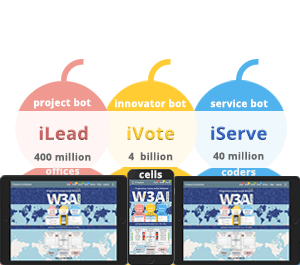
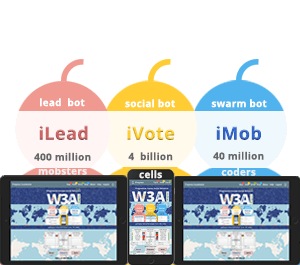
switched to bot mobs theme

diff --git a/src/app/welcome/welcome.component.html b/src/app/welcome/welcome.component.html
@@ -47,6 +47,11 @@
         </li>
 
         <li class="ranks middle" fxLayout="column" fxLayoutAlign="center center" fxLayoutGap="5px">
+            
+          <b>world bots: {{i}} | prj: {{ prj_state }} | set: {{setup}}</b>
+          <!--
+          <a routerLink="/signup"><button class="auth-button" mat-button>Game In</button></a>
+          -->
           <h6 class="carousel">
 <!--
             Join <a class="ppt-links"
@@ -100,22 +105,19 @@
   <section class="speed">
     <div fxLayout="row" xLayoutAlign="center center" fxLayoutGap="20px"  fxLayoutGap.gt-xs="24px">
       <div fxLayout="column" fxLayoutAlign="center center">
-        <div>manual</div>
         <div><button class="W3AI-button" mat-button (click)="onSetManual(3000)"
-            [ngStyle]="{color: getStatusButtonManual()}"><b><</b></button></div>
-        
+            [ngStyle]="{color: getStatusButtonManual()}"><b>></b></button></div>
+            <div>manual</div>
       </div>
       <div fxLayout="column" fxLayoutAlign="center center">
-          <div>autopilot</div>
         <div><button class="W3AI-button" mat-button (click)="onSetSprint(100)"
-            [ngStyle]="{color: getStatusButtonMarathon()}"><b><<</b></button></div>
-        
+            [ngStyle]="{color: getStatusButtonMarathon()}"><b>>></b></button></div>
+            <div>autopilot</div>
       </div>
       <div fxLayout="column" fxLayoutAlign="center center">
-        <div>innovation</div>
         <div><button class="W3AI-button" mat-button (click)="onSetRun(10)"
-            [ngStyle]="{color: getStatusButtonHackathon()}"><b><<<</b></button></div>
-        
+            [ngStyle]="{color: getStatusButtonHackathon()}"><b>>>></b></button></div>
+            <div>innovation</div>
       </div>
     </div>
   </section>
@@ -140,13 +142,13 @@
         <tr>
           <td></td>
           <td></td>
-          <td contenteditable="true"><b>&nbsp;iLead Projects&nbsp;</b></td>
+          <td contenteditable="true"><b>&nbsp;mob projects&nbsp;</b></td>
           <td></td>
           <td></td>
-          <td contenteditable="true"><b>iProgress Loop</b></td>
+          <td contenteditable="true"><b>mob interests</b></td>
           <td></td>
           <td></td>
-          <td contenteditable="true"><b>&nbsp;iCode Services&nbsp;</b></td>
+          <td contenteditable="true"><b>&nbsp;mob services&nbsp;</b></td>
           <td></td>
           <td></td>
         </tr>
@@ -309,14 +311,14 @@
     <section id="manual" *ngIf="manual">
   
       <div id="round-robin-container">
-        <div id="interest-container">#Rank - Interest - $Budget</div>
+        <div id="interest-container">{{ link1 }} mobs / Δ: ${{ this.tag[(i+2)%this.nrLinks][5] }}</div>
         <div id="project-service-container" fxLayout="row" fxLayoutGap="0px" style="width: 300px; height: 200px;">
 
           <div id="project-container" fxLayout="column" fxLayoutAlign="center center" 
           style="width: 150px; height: 200px; background-color: #f09991"
           [@prjState]="prj_state">
-            <div id="project-owner-container">Owner Image</div>
-            <div id="project-state-container">
+            <div id="project-owner-container">Title</div>
+            <div id="project-state-container">Owner Image
               <div id="project-state">Next Steps</div>
               <div id="project-state-badges-container"></div>
             </div>
@@ -324,7 +326,7 @@
 
           <div id="service-container" fxLayout="column" fxLayoutAlign="center center"
           style="width: 150px; height: 200px; background-color: #50b3ed"
-          @serviceInOutTrigger>
+          [@srvState]="srv_state">
             <div id="service-owner-container">Owner Image</div>
             <div id="service-state-container">
                 <div id="service-state">Next Steps</div>
@@ -360,11 +362,11 @@
     <section *ngIf="run">
   
       <div id="hello-world">
-        <h1 id="main-title">Web Brains</h1>
+        <h1 id="main-title">Web Mobs</h1>
         <div class="header" fxLayout="row" fxLayoutAlign="center center">
           <div id="left" fxFlex="27%">
             <p>
-              <br><span class="side-title">Brains Teams</span><br>
+              <br><span class="side-title">Web Mobs</span><br>
               Links<sup>2</sup>: {{ superFriendsNo }}<br>
               Projects: {{ superProjectsNo }}<br>
               Services: {{ superServicesNo }}<br>
@@ -437,12 +439,12 @@
   <section class="clone" fxLayout="row" fxLayoutGap="40px">
     <div class="open-source" fxLayout="column" fxLayoutAlign="center end">
       <p><b>FREE W3AI.ORG</b></p>
-      <p><b><a href="https://w3ai.org">Social Brains</a></b></p>
+      <p><b><a href="https://w3ai.org">Personal Bots</a></b></p>
       <p>EDU, ORG</p>
     </div>
     <div class="enterprise" fxLayout="column" fxLayoutAlign="center ">
       <p><b>OPEN W3AI.NET</b></p>
-      <p><b><a href="https://w3ai.net">Business Brains</a></b></p>
+      <p><b><a href="https://w3ai.net">Business Bots</a></b></p>
       <p>GOV, COM</p>
     </div>
   </section>
@@ -454,7 +456,7 @@
   </a>
 -->
 
-  <h1>Fair Brains</h1>
+  <h1>Web Brain</h1>
 </section>
 
 <div class="welcome" fxLayout="row" fxLayoutGap="0px"  fxLayoutGap.gt-xs="20px" fxLayoutAlign="center center">

diff --git a/src/app/welcome/welcome.component.ts b/src/app/welcome/welcome.component.ts
@@ -42,21 +42,31 @@ export interface Tile {
       }))
     ])
   ]),
-  trigger('serviceInOutTrigger', [
-    transition(':enter', [
-      style({ opacity: 0 }),
-      animate(200, style({ opacity: 1 })),
-    ]),
-    transition(':leave', [
-      animate(200, style({ opacity: 0 }))
+
+  trigger('srvState', [
+    state('new', style({
+      opacity: 1,
+      transform: 'translateY(0px)'
+    })),
+    state('same', style({
+      opacity: 0,
+      transform: 'translateY(-30px)'
+    })),
+    transition('same => new', animate(300)),
+    transition('new => same', [
+      animate(300, style({
+        transform: 'translateY(+30px)',
+        opacity: 0
+      }))
     ])
   ])
+
   ]
 })
 export class WelcomeComponent implements OnInit, AfterViewInit {
 
   prj_state = 'new';
-  srv_state = 'same';
+  srv_state = 'new';
 
   tiles: Tile[] = [
     {text: '', cols: 1, rows: 1, color: ''},
@@ -88,16 +98,18 @@ export class WelcomeComponent implements OnInit, AfterViewInit {
     {text: '', cols: 1, rows: 1, color: ''}
   ];
 
-  manual = false;
-  sprint = true;
+  // iLead process/bot on the landing screen - manual = true
+  manual = true;
+  sprint = false;
   run = false;
 
   bot_red = 'rgba(238,153,147,1)';  // Bot red
   bot_yellow = 'rgba(254,203,69,1)';  // Bot yellow
   bot_blue = 'rgba(85,180,235,1)';  // Bot blue
 
-  setup = 'sprint'; // manual | sprint | run ;  previously it was manual | marathon | hackathon 
+  setup = 'manual'; // manual | sprint | run ;  previously it was manual | marathon | hackathon 
 
+  // [ ToDo ] - Do we still need this section ?!
   aiSetup = 'Sprint';   // Marathon or Hackathon
   goalFCB = 'Fair Social Progress';  // initially was 'Family - Community - Business'
   goalMAX = 'Maximum Productivity';
@@ -106,7 +118,7 @@ export class WelcomeComponent implements OnInit, AfterViewInit {
   isAuth$: Observable<boolean>;
 
   timer: number;
-  interval: number = 30;   // set interval timer 
+  interval: number = 3000;   // set initial interval timer 
   newInterval: number = 300;
   setupCycle: number = 1000;   // well use this setupCycle updated from the Setup page 
                               // to increase / decrease the time interval
@@ -236,12 +248,15 @@ export class WelcomeComponent implements OnInit, AfterViewInit {
     }, this.interval );
   }
 
+  // To loop through all the Projects and Services in the Interests loop/list table
   dnaLoop() {
+
     this.updateLoopTable();
+
     this.i++;   // increment the index of the DNA Queue - Circular List
 
     /* If pace set to manual alternate project state between new and transition */
-    if (this.setup == 'manual') {
+    if (this.setup === 'manual') {
       Math.random() < 0.3 ? this.prj_state = 'new' : this.prj_state = 'same';   // random values during animation dev
       Math.random() > 0.3 ? this.srv_state = 'new' : this.srv_state = 'same';
     }
@@ -306,13 +321,25 @@ export class WelcomeComponent implements OnInit, AfterViewInit {
 
     this.readQueueV1IntoLoopArrays();
     // this.readQueueIntoLoopArrays();    the reader for first version of the Queue
+
     this.timer = setInterval( ()=> {
-      this.updateLoopTable();
+
+      this.dnaLoop();
+
+      // [ ToDo ] - To remove these commented parts
+      // To update the spreadshhet table view for Sprint peed setup >>
+      // this.updateLoopTable();
+      //
       // Move to next tag / link in the queue
-      this.i++;
-      this.w3aiStats();
+      // this.i++;
+      //
+      // Stats for the Run setup >>>
+      // this.w3aiStats();
+
+      // Move world map to simulate rotation / speed / progress
       this.setSlowWorldMove();
       this.setProgressSpeed();
+
     }, this.interval );
 
   }

diff --git a/src/app/navigation/header/header.component.html b/src/app/navigation/header/header.component.html
@@ -10,7 +10,7 @@
 <section class="toolbar-text" fxFlex>
 
     <div fxFlex fxLayout fxLayoutAlign="flex-start" fxHide.gt-sm>
-        <a routerLink="/">Bots</a>
+        <a routerLink="/">bot mob</a>
     </div>
 
     <div xFlex fxLayout fxLayoutAlign="flex-start" fxHide.lt-md>
@@ -19,29 +19,29 @@
 
     <div fxFlex fxLayout fxLayoutAlign="flex-end" fxHide.gt-sm>
         <ul fxLayout fxLayoutAlign="center center" fxLayoutGap="10px" fxLayoutGap.gt-xs="15px" class="navigation-items">
-            <li *ngIf="isAuth$ | async"><a routerLink="/project"><span matBadge="9" matBadgeColor="accent">Idea</span></a></li>            
-            <li *ngIf="isAuth$ | async"><a routerLink="/venture"><span matBadge="7" matBadgeColor="warn">Vote</span></a></li>
-            <li *ngIf="isAuth$ | async"><a routerLink="/session"><span class="alternate-theme" matBadge="6" matBadgeColor="primary">Done</span></a></li>
+            <li *ngIf="isAuth$ | async"><a routerLink="/project"><span matBadge="9" matBadgeColor="accent">idea</span></a></li>            
+            <li *ngIf="isAuth$ | async"><a routerLink="/venture"><span matBadge="7" matBadgeColor="warn">vote</span></a></li>
+            <li *ngIf="isAuth$ | async"><a routerLink="/session"><span class="alternate-theme" matBadge="6" matBadgeColor="primary">done</span></a></li>
         </ul>
     </div>
     
     <div fxFlex fxLayout fxLayoutAlign="flex-end" fxHide.lt-md>
         <ul fxLayout fxLayoutAlign="center center" fxLayoutGap="10px" fxLayoutGap.gt-xs="15px" class="navigation-items">
 
-            <li *ngIf="isAuth$ | async"><a routerLink="/project"><span matBadge="9" matBadgeColor="accent" matBadgeOverlap="true">Idea</span></a></li>
-            <li *ngIf="isAuth$ | async"><a routerLink="/venture"><span matBadge="7" matBadgeColor="warn" >Vote</span></a></li>
-            <li *ngIf="isAuth$ | async"><a routerLink="/session"><span matBadge="6" class="alternate-theme" matBadgeColor="primary" matBadgeOverlap="true">Done</span></a></li>
-            <li *ngIf="isAuth$ | async"><a routerLink="/session"><span matBadge="8" class="bot-theme" matBadgeColor="primary" matBadgeOverlap="true">Bots</span></a></li>
+            <li *ngIf="isAuth$ | async"><a routerLink="/project"><span matBadge="9" matBadgeColor="accent" matBadgeOverlap="true">idea</span></a></li>
+            <li *ngIf="isAuth$ | async"><a routerLink="/venture"><span matBadge="7" matBadgeColor="warn" >vote</span></a></li>
+            <li *ngIf="isAuth$ | async"><a routerLink="/session"><span matBadge="6" class="alternate-theme" matBadgeColor="primary" matBadgeOverlap="true">done</span></a></li>
+            <li *ngIf="isAuth$ | async"><a routerLink="/session"><span matBadge="8" class="bot-theme" matBadgeColor="primary" matBadgeOverlap="true">bots</span></a></li>
 
-            <li *ngIf="!(isAuth$ | async)"><a routerLink="/signup">Signup</a></li>
-            <li *ngIf="!(isAuth$ | async)"><a routerLink="/login">Login</a></li>
+            <li *ngIf="!(isAuth$ | async)"><a routerLink="/signup">signup</a></li>
+            <li *ngIf="!(isAuth$ | async)"><a routerLink="/login">login</a></li>
 
-            <li><a routerLink="/about">About</a></li>
+            <li><a routerLink="/about">about</a></li>
 
-            <li><a routerLink="/help">Help</a></li>
+            <li><a routerLink="/help">help</a></li>
 
             <li *ngIf="isAuth$ | async">
-                <a style="cursor: pointer" (click)="onLogout()">Logout</a>
+                <a style="cursor: pointer" (click)="onLogout()">logout</a>
             </li>
             <li class="right-icon">
                 <button mat-icon-button>

diff --git a/src/app/welcome/welcome.component.css b/src/app/welcome/welcome.component.css
@@ -239,6 +239,9 @@ table {
 }
 
 .speed {
+    position: relative;
+    top: -56px;
+    z-index: 30;
     text-align: center;
     font-family: arial, sans-serif;
     font-size: x-small;
@@ -247,9 +250,6 @@ table {
 }
 
 .W3AI-button {
-    position: relative;
-    top: -68px;
-    z-index: 30;
     height: 36px !important;
     min-width: 70px !important;
     font-family: arial, sans-serif;

diff --git a/src/app/navigation/header/header.component.ts b/src/app/navigation/header/header.component.ts
@@ -16,7 +16,7 @@ import { SetupService } from '../../setup.service';
 export class HeaderComponent implements OnInit {
   @Output() sidenavToggle = new EventEmitter<void>();
   isAuth$: Observable<boolean>;
-  appTitle = 'Bots OS';
+  appTitle = 'bot mob';
 
   constructor(private store: Store<fromRoot.State>, 
               private authService: AuthService,

diff --git a/src/index.html b/src/index.html
@@ -2,7 +2,7 @@
 <html lang="en">
 <head>
   <meta charset="utf-8">
-  <title>Brains Web</title>
+  <title>bot mob</title>
   <base href="/">
 
   <meta name="viewport" content="width=device-width, initial-scale=1">
